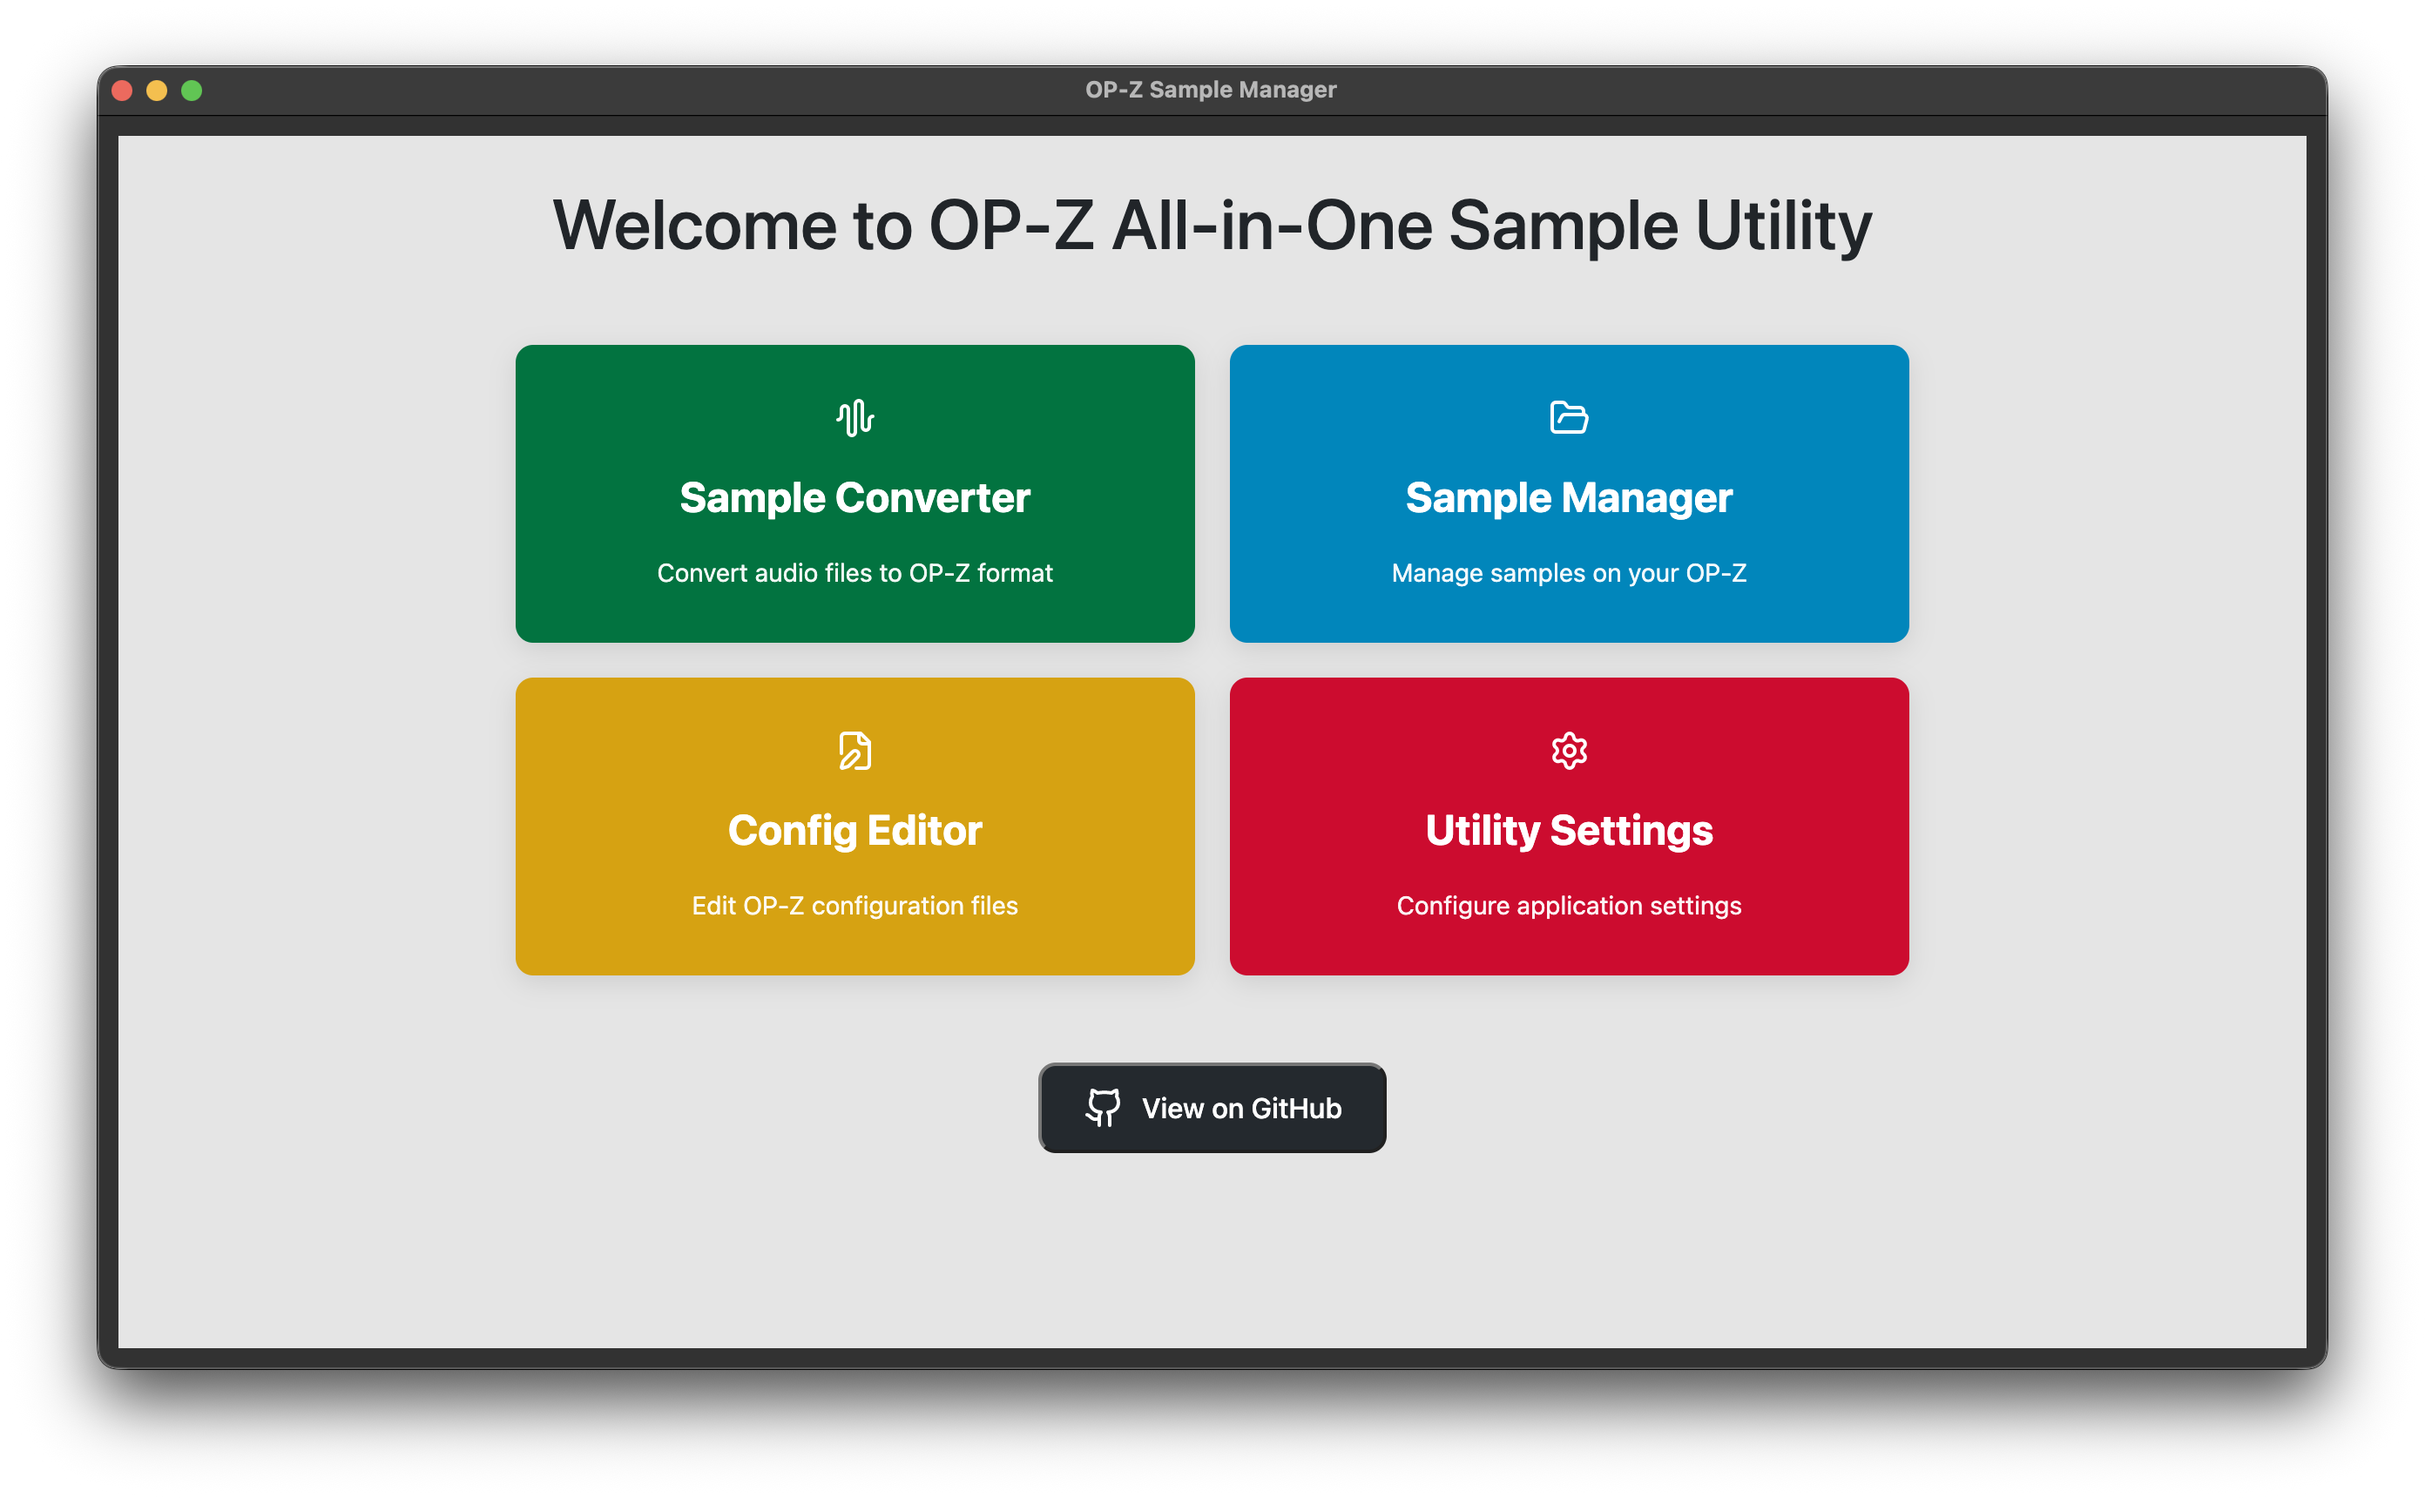
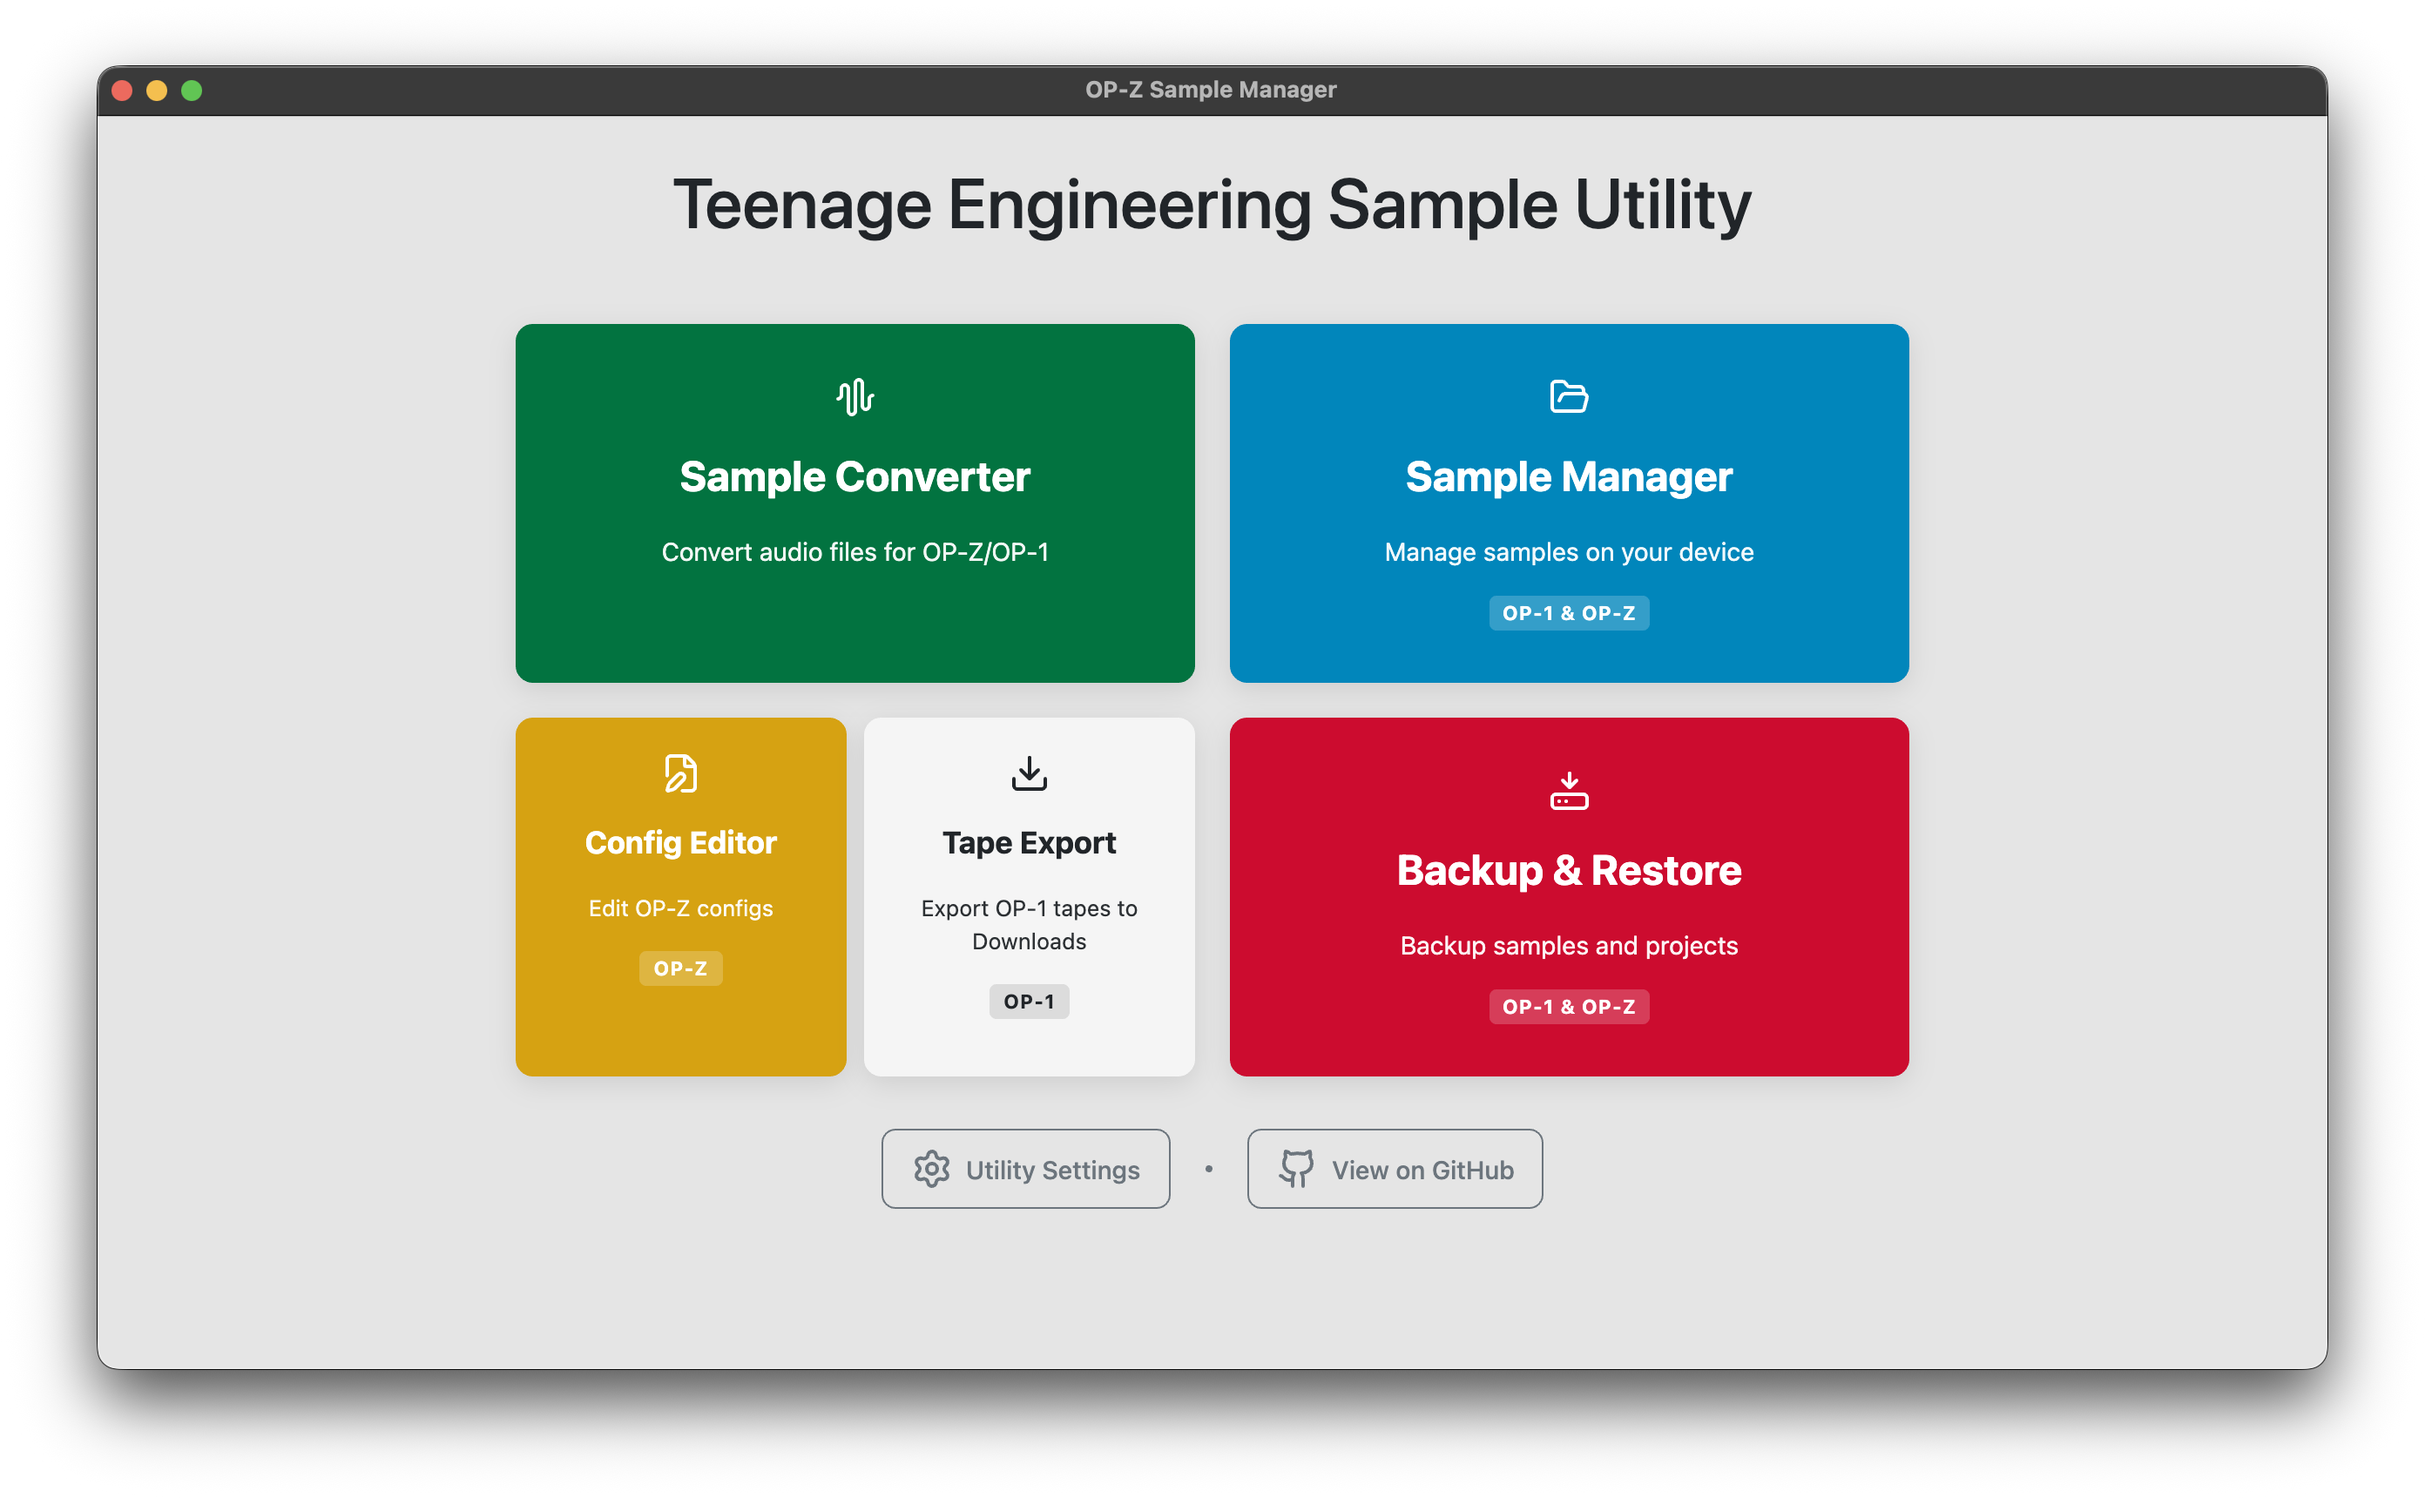
updates readme and screenshots

diff --git a/blueprints/tape_export.py b/blueprints/tape_export.py
@@ -39,6 +39,31 @@ def get_op1_mount_path():
     return path
 
 
+def find_ffmpeg():
+    """Find ffmpeg, checking common installation paths."""
+    # Check config first
+    configured = get_config_setting("FFMPEG_PATH")
+    if configured and os.path.isfile(configured):
+        return configured
+
+    # Common locations on macOS/Linux
+    common_paths = [
+        "/opt/homebrew/bin/ffmpeg",  # Apple Silicon Homebrew
+        "/usr/local/bin/ffmpeg",      # Intel Homebrew
+        "/usr/bin/ffmpeg",            # System
+    ]
+
+    for path in common_paths:
+        if os.path.isfile(path):
+            return path
+
+    # Fallback to PATH (works when running from terminal)
+    if shutil.which("ffmpeg"):
+        return "ffmpeg"
+
+    return None
+
+
 def get_source_path(track_type, track_id, mount_path):
     """Get the source AIFF file path for a track."""
     if track_type == "tape":
@@ -62,9 +87,17 @@ def needs_conversion(source_path, cache_path):
     return os.path.getmtime(source_path) > os.path.getmtime(cache_path)
 
 
+class FFmpegNotFoundError(Exception):
+    """Raised when FFmpeg is not found on the system."""
+    pass
+
+
 def convert_to_wav(source_path, cache_path):
     """Convert AIFF to WAV using FFmpeg."""
-    ffmpeg_path = get_config_setting("FFMPEG_PATH", "ffmpeg")
+    ffmpeg_path = find_ffmpeg()
+
+    if not ffmpeg_path:
+        raise FFmpegNotFoundError("FFmpeg not found. Please install FFmpeg to use this feature.")
 
     subprocess.run(
         [ffmpeg_path, "-y", "-i", source_path, cache_path],
@@ -187,6 +220,9 @@ def prepare_audio():
         try:
             convert_to_wav(source_path, cache_path)
             converted.append(f"{track_type}_{track_id}")
+        except FFmpegNotFoundError as e:
+            current_app.logger.error(f"FFmpeg not found: {e}")
+            return jsonify({"error": str(e)}), 500
         except subprocess.CalledProcessError as e:
             error_msg = e.stderr.decode() if e.stderr else str(e)
             current_app.logger.error(f"FFmpeg error converting {track_type}_{track_id}: {error_msg}")
@@ -233,8 +269,11 @@ def serve_tape_audio(track_type, track_id):
     if not os.path.exists(cache_path):
         try:
             convert_to_wav(source_path, cache_path)
+        except FFmpegNotFoundError as e:
+            current_app.logger.error(f"FFmpeg not found: {e}")
+            return jsonify({"error": str(e)}), 500
         except subprocess.CalledProcessError as e:
-            current_app.logger.error(f"FFmpeg conversion error: {e.stderr.decode()}")
+            current_app.logger.error(f"FFmpeg conversion error: {e.stderr.decode() if e.stderr else str(e)}")
             return jsonify({"error": "Audio conversion failed"}), 500
 
     return send_file(cache_path, mimetype="audio/wav")

diff --git a/README.md b/README.md
@@ -1,41 +1,40 @@
-# opz-sample-manager
-flask app built with PyQt5 to handle everything with samples on the op-z
+# op1z-sample-manager
 
-Very early in development! Has bugs, UI is unintuitive. Everything is subject to change.
+**NEW: OP-1 Support Added! New Features!** Sample manager supports OP-1, plus tape track exporter and backup/restore feature
+
+This is a Flask app built with PyQt5 to handle everything with samples on the OP-Z. As time goes on, I'm adding more features around project management, export, and other various utilities.
+
 
 ### Run app using:
-```python main.py``` after installing dependencies in ```requirements.txt```
+1) Install requirements in ```requirements.txt```
+2) ```python main.py``` **or** build app by running ```./build.sh```, and run the created executable under ```dist/```
 
-### Using the sample manager:
-- Select the sample loader page
-- Select the directory of your OP-Z in `Utility Settings` if you haven't (you will be prompted if it's missing)
-- Click "List Files" at the top
-- Add, remove, rearrange files as you see fit. Any file you drop will be automatically converted to the correct format for the OP-Z. Make sure you have FFMPEG installed, and if you're on Windows, set the path in `Utility Settings`.
-
-### Using the sample converter
-- Select the sample converter page
-- Drop your audio file into the corresponding category (drum or synth sample)
-- Sample will be automatically converted
-- Sample is stored in "converted" directory inside. Click `Open Converted Directory`
-
-### Using the config editor
-- The config editor displays the OP-Z config options visually
-- These screen is a work in progress
-- You can toggle settings, type in boxes, edit the DMX config
-- When you're done, click `Save Changes` at the top
+### Using the App:
+- Set your directories in utility settings:
+    - Set your working directory (This is where backups, converted samples, and more are stored)
+    - Set your OP-Z mount path (if connected)
+    - Set your OP-1 mount path (if connected)
 
 ## Screenshots
 ### Home Page:
 ![home page](/screenshots/homepage.png)
 
 ### Sample Manager:
-![sample manager](/screenshots/samplemanager.png)
+![sample manager OP-Z](/screenshots/samplemanageropz.png)
+![sample manager OP-Z](/screenshots/samplemanagerop1.png)
 
 ### Sample Converter:
 ![sample converter](/screenshots/sampleconverter.png)
 
 ### Config File Editor:
-![config file editor](/screenshots/configeditor.png)
+![config file editor](/screenshots/configeditoropz.png)
+
+### Tape Exporter:
+![tape exporter op1](/screenshots/tapeexport.png)
+
+### Backup and Restore:
+![Backup and Restore OP-Z](/screenshots/backupandrestoreopz.png)
+![Backup and Restore OP-1](/screenshots/backupandrestoreop1.png)
 
 ### Utility Settings:
 ![utility settings](/screenshots/utilitysettings.png)
